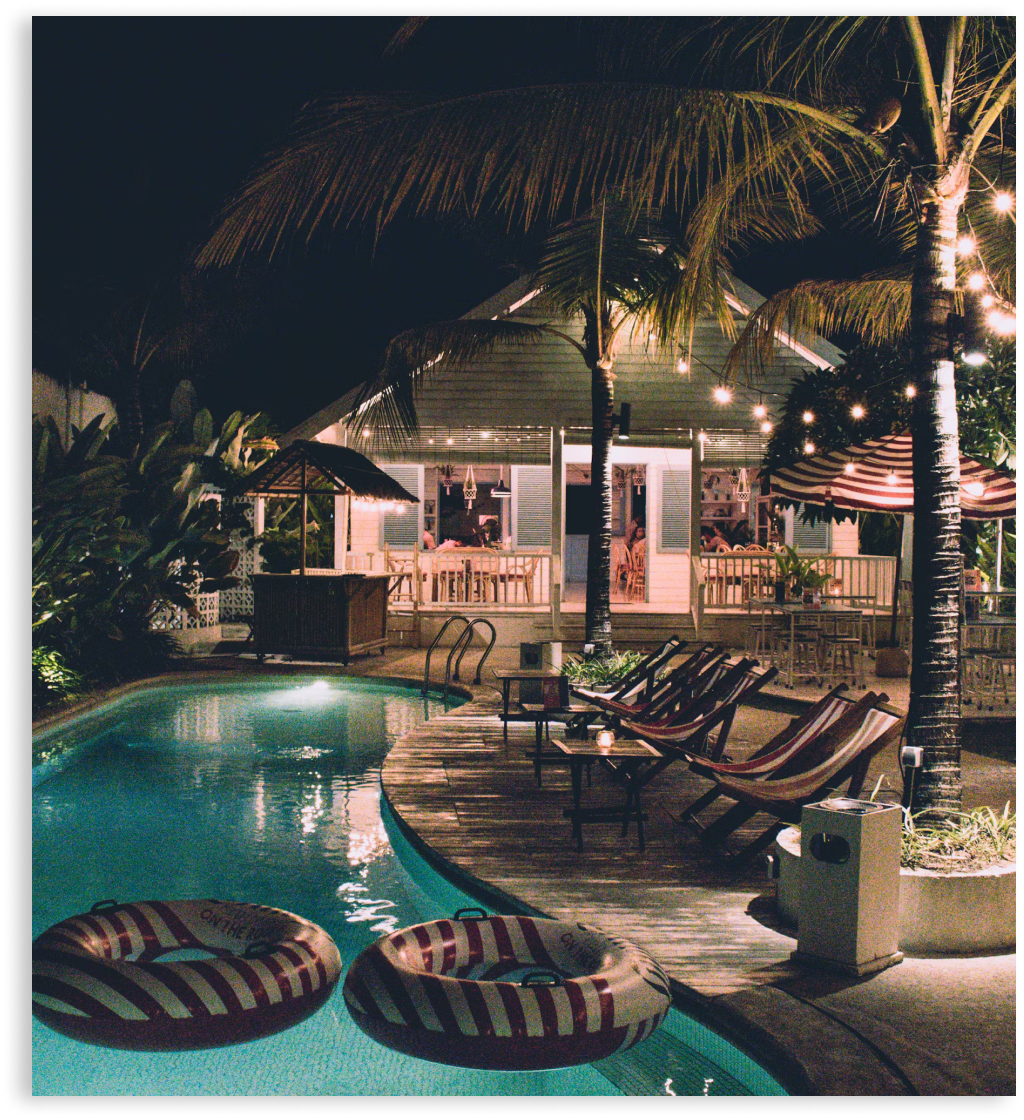
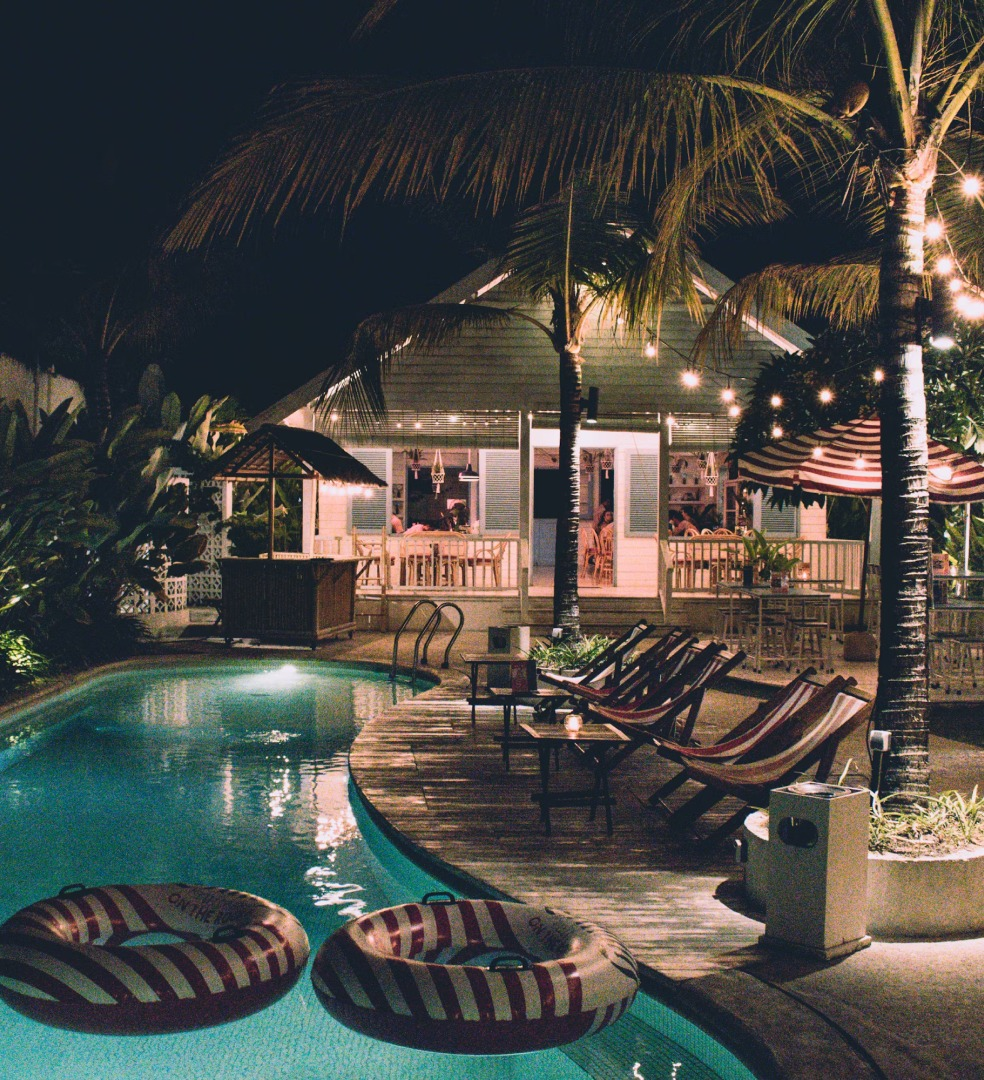
feat/sign-up-initial-flow

diff --git a/etheroom-web/src/app/views/shared/register/register.component.html b/etheroom-web/src/app/views/shared/register/register.component.html
@@ -1,32 +1,46 @@
-<section>
-    <h1>Sign Up</h1>
-    <ng-container *ngIf="userForm$ | async as userForm; else roleNotSelected">
-        <etheroom-person-form *ngIf="isPerson; else hotelForm" [personForm]="userForm"></etheroom-person-form>
-        <ng-template #hotelForm>
-            <etheroom-hotel-form [hotelForm]="userForm"></etheroom-hotel-form>
-        </ng-template>
+<ng-container *ngIf="userForm$ | async as userForm; else roleNotSelected">
+    <div class="sign-up-header">
+        <img src="./../../assets/images/etheroom-logo.svg" alt="Ether Logo">
+        <h1>Sign Up</h1>
+    </div>
+    <etheroom-person-form *ngIf="isPerson; else hotelForm" [personForm]="userForm"></etheroom-person-form>
+    <ng-template #hotelForm>
+        <etheroom-hotel-form [hotelForm]="userForm"></etheroom-hotel-form>
+    </ng-template>
+    <div class="actions">
         <ether-button (onClick)="reset()">Back</ether-button>
         <ether-button (onClick)="onSubmit()">Submit</ether-button>
-    </ng-container>
-    <ng-template #roleNotSelected>
+    </div>
+</ng-container>
+<ng-template #roleNotSelected>
+    <div class="sign-up-welcome-container">
+        <img src="./../../../../assets/images/sign-up-bg.jpg" alt="Picture that shows a hotel with a pool at night" />
         <div>
-            <img alt="Picture that shows a hotel with a pool at night" />
-            <div>
-                <p>
-                    Our services use the Metamask Browser Plugin.
-                    Make sure you have installed the <a href="https://metamask.io/download/">Metamask plugin</a> in your browser.
-                </p>
-                <div *ngIf="ethereumAccount$ | async; else loadingAccount">
-                    <ether-button>Create Guest</ether-button>
-                    <ether-button>Create Hotel</ether-button>
-                </div>
-                <ng-template #loadingAccount>
+            <img src="./../../../../assets/images/etheroom-logo.svg" alt="Ether Logo">
+            <h1>Sign Up</h1>
+            <p>
+                Our services use the Metamask Browser Plugin.<br>
+                Make sure you have installed the <a href="https://metamask.io/download/">Metamask plugin</a> in your browser.
+            </p>
+            <div class="actions" *ngIf="ethereumAccount$ | async; else loadingAccount">
+                <ether-button (onClick)="onClickPerson()">Create Guest</ether-button>
+                <ether-button (onClick)="onClickHotel()">Create Hotel</ether-button>
+            </div>
+            <ng-template #loadingAccount>
+                <ng-container *ngIf="connectionAttempted; else unableToConnect">
                     <p>We weren't able to load your Metamask Account data</p>
                     <p>Check if you have the Plugin installed and try again</p>
-                    <ether-button>Reload Metamask Data</ether-button>
+                    <ether-button (onClick)="retryConnection()">Reload Metamask Data</ether-button>
+                </ng-container>
+                <ng-template #unableToConnect>
+                    <p>We use Metamask Accounts Data for authentication</p>
+                    <p>We sent you a request to sign a message for registering purposes</p>
+                    <p>Check your Metamask Plugin and sign the message</p>
+                    <p>The message is Login Etheroom</p>
+                    <p>We will request in certain actions in our system</p>
                 </ng-template>
-                <p>Already have an account? <a routerLink="/login">Log in</a></p>
-            </div>
+            </ng-template>
+            <p>Already have an account? <a routerLink="/sign-in">Log in</a></p>
         </div>
-    </ng-template>
-</section>
+    </div>
+</ng-template>

diff --git a/etheroom-web/src/app/views/shared/register/register.component.ts b/etheroom-web/src/app/views/shared/register/register.component.ts
@@ -30,6 +30,8 @@ export class RegisterComponent extends UtilComponent implements OnInit {
 
   public isPerson: boolean = false;
 
+  public connectionAttempted: boolean = false;
+
   protected override pageTitle: string = "New Account";
   protected override pageDescription: string = "Create a new account to access our services";
   
@@ -40,10 +42,12 @@ export class RegisterComponent extends UtilComponent implements OnInit {
     injector: Injector
   ) {
     super(injector);
+    this.onInit();
   }
 
-  public ngOnInit(): void {
-      
+  public async ngOnInit(): Promise<void> {
+      await this.web3Service.initializeWeb3();
+      this.loadEthereumAccount();
   }
 
   public onClickPerson(): void {
@@ -67,6 +71,16 @@ export class RegisterComponent extends UtilComponent implements OnInit {
     else {
       this.snackbar.info("Please fill all the required fields");
     }
+  }
+
+  public retryConnection(): void {
+    this.loadEthereumAccount();
+  }
+
+  private loadEthereumAccount(): void {
+    this.web3Service.buildEthereumAccount().then(
+      account => this.ethereumAccount$.next(account)
+    ).catch(() => this.connectionAttempted = true);
   }
 
   private createPerson(person: Person): void {

diff --git a/etheroom-web/src/app/views/shared/register/register.component.scss b/etheroom-web/src/app/views/shared/register/register.component.scss
@@ -1,0 +1,49 @@
+:host {
+    width: 100vw;
+    height: 100vh;
+    display: block;
+}
+
+div.sign-up-welcome-container {
+    width: 100%;
+    height: 100%;
+    display: flex;
+    justify-content: center;
+    align-items: center;
+    > * {
+        flex: 1;
+    }
+    > img {
+        width: 100%;
+        height: 100%;
+        object-fit: cover;
+    }
+    > div {
+        display: flex;
+        flex-direction: column;
+        align-items: center;
+        text-align: center;
+    }
+}
+
+div.actions {
+    width: 100%;
+    display: flex;
+    justify-content: center;
+    align-items: center;
+    gap: 1rem;
+    ether-button {
+        width: clamp(180px, 50%, 240px);
+    }
+}
+
+div.sign-up-header {
+    width: 100%;
+    display: flex;
+    flex-direction: column;
+    justify-content: center;
+    align-items: center;
+    > img {
+        height: 4rem;
+    }
+}

diff --git a/etheroom-web/src/styles/_typography.scss b/etheroom-web/src/styles/_typography.scss
@@ -3,6 +3,11 @@ h1.test {
     font-size: var(--font-size-31xl);
 }
 
+h2.test {
+    font-weight: var(--font-weight-bold);
+    font-size: var(--font-size-2xl);
+}
+
 a.test {
     text-decoration: none;
 }
